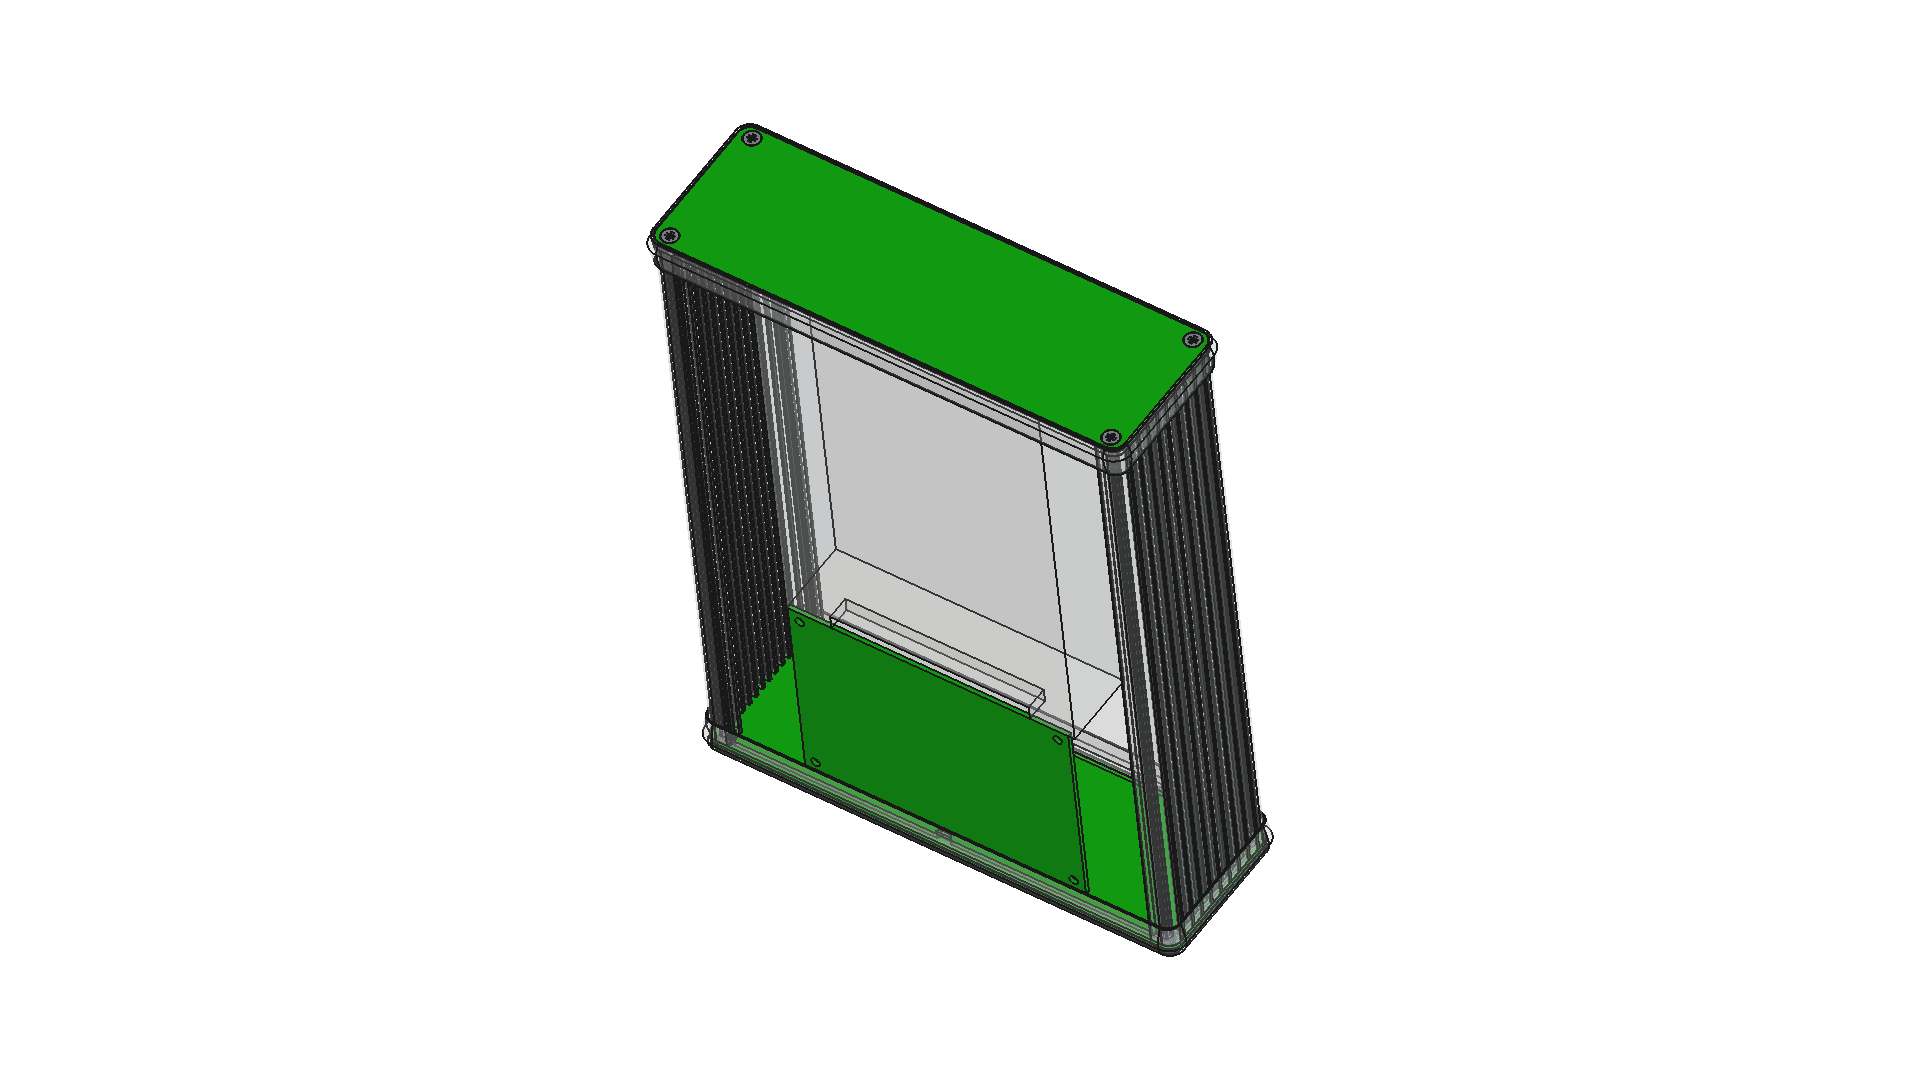
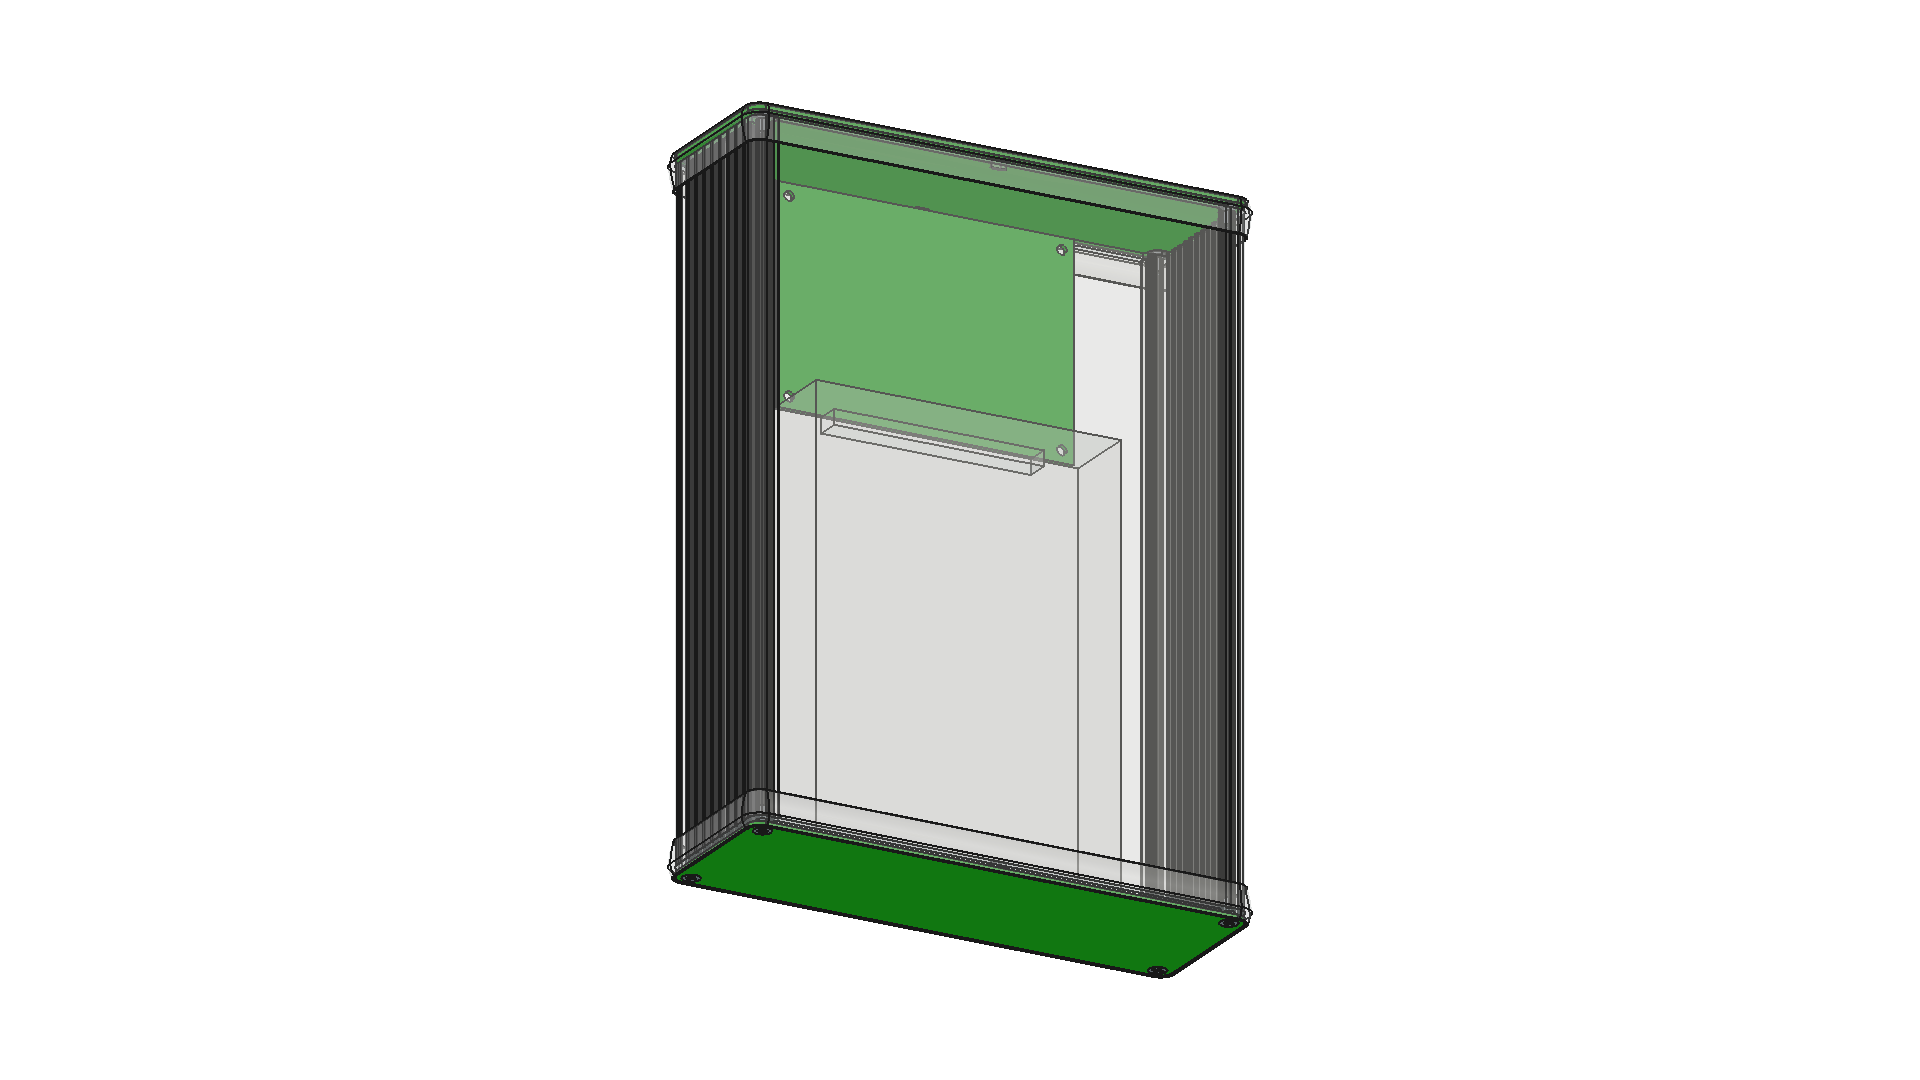
Improve assembly screenshot angle

Changed region(s): [[0.3125, 0.0917, 0.6875, 0.9167]]

diff --git a/mechanical/screenshot.py b/mechanical/screenshot.py
@@ -28,8 +28,17 @@ for obj in doc.Objects:
             pass
 
 view = FreeCADGui.ActiveDocument.ActiveView
-view.viewIsometric()
+
+# Set camera to show case lying flat on a table
+# Case Y axis is height — we want to look from above-front
+from pivy import coin
+cam = view.getCameraNode()
+# Look from top-front-right: rotate so Y(height) points up on screen
+rot = coin.SbRotation(coin.SbVec3f(1, 0, 0), -1.2)  # tilt to see top
+rot *= coin.SbRotation(coin.SbVec3f(0, 0, 1), 0.5)   # rotate for 3/4 view
+cam.orientation.setValue(rot)
 view.fitAll()
+
 view.saveImage("mechanical/assembly.png", 1920, 1080, "White")
 
 print("Screenshot saved to mechanical/assembly.png")
